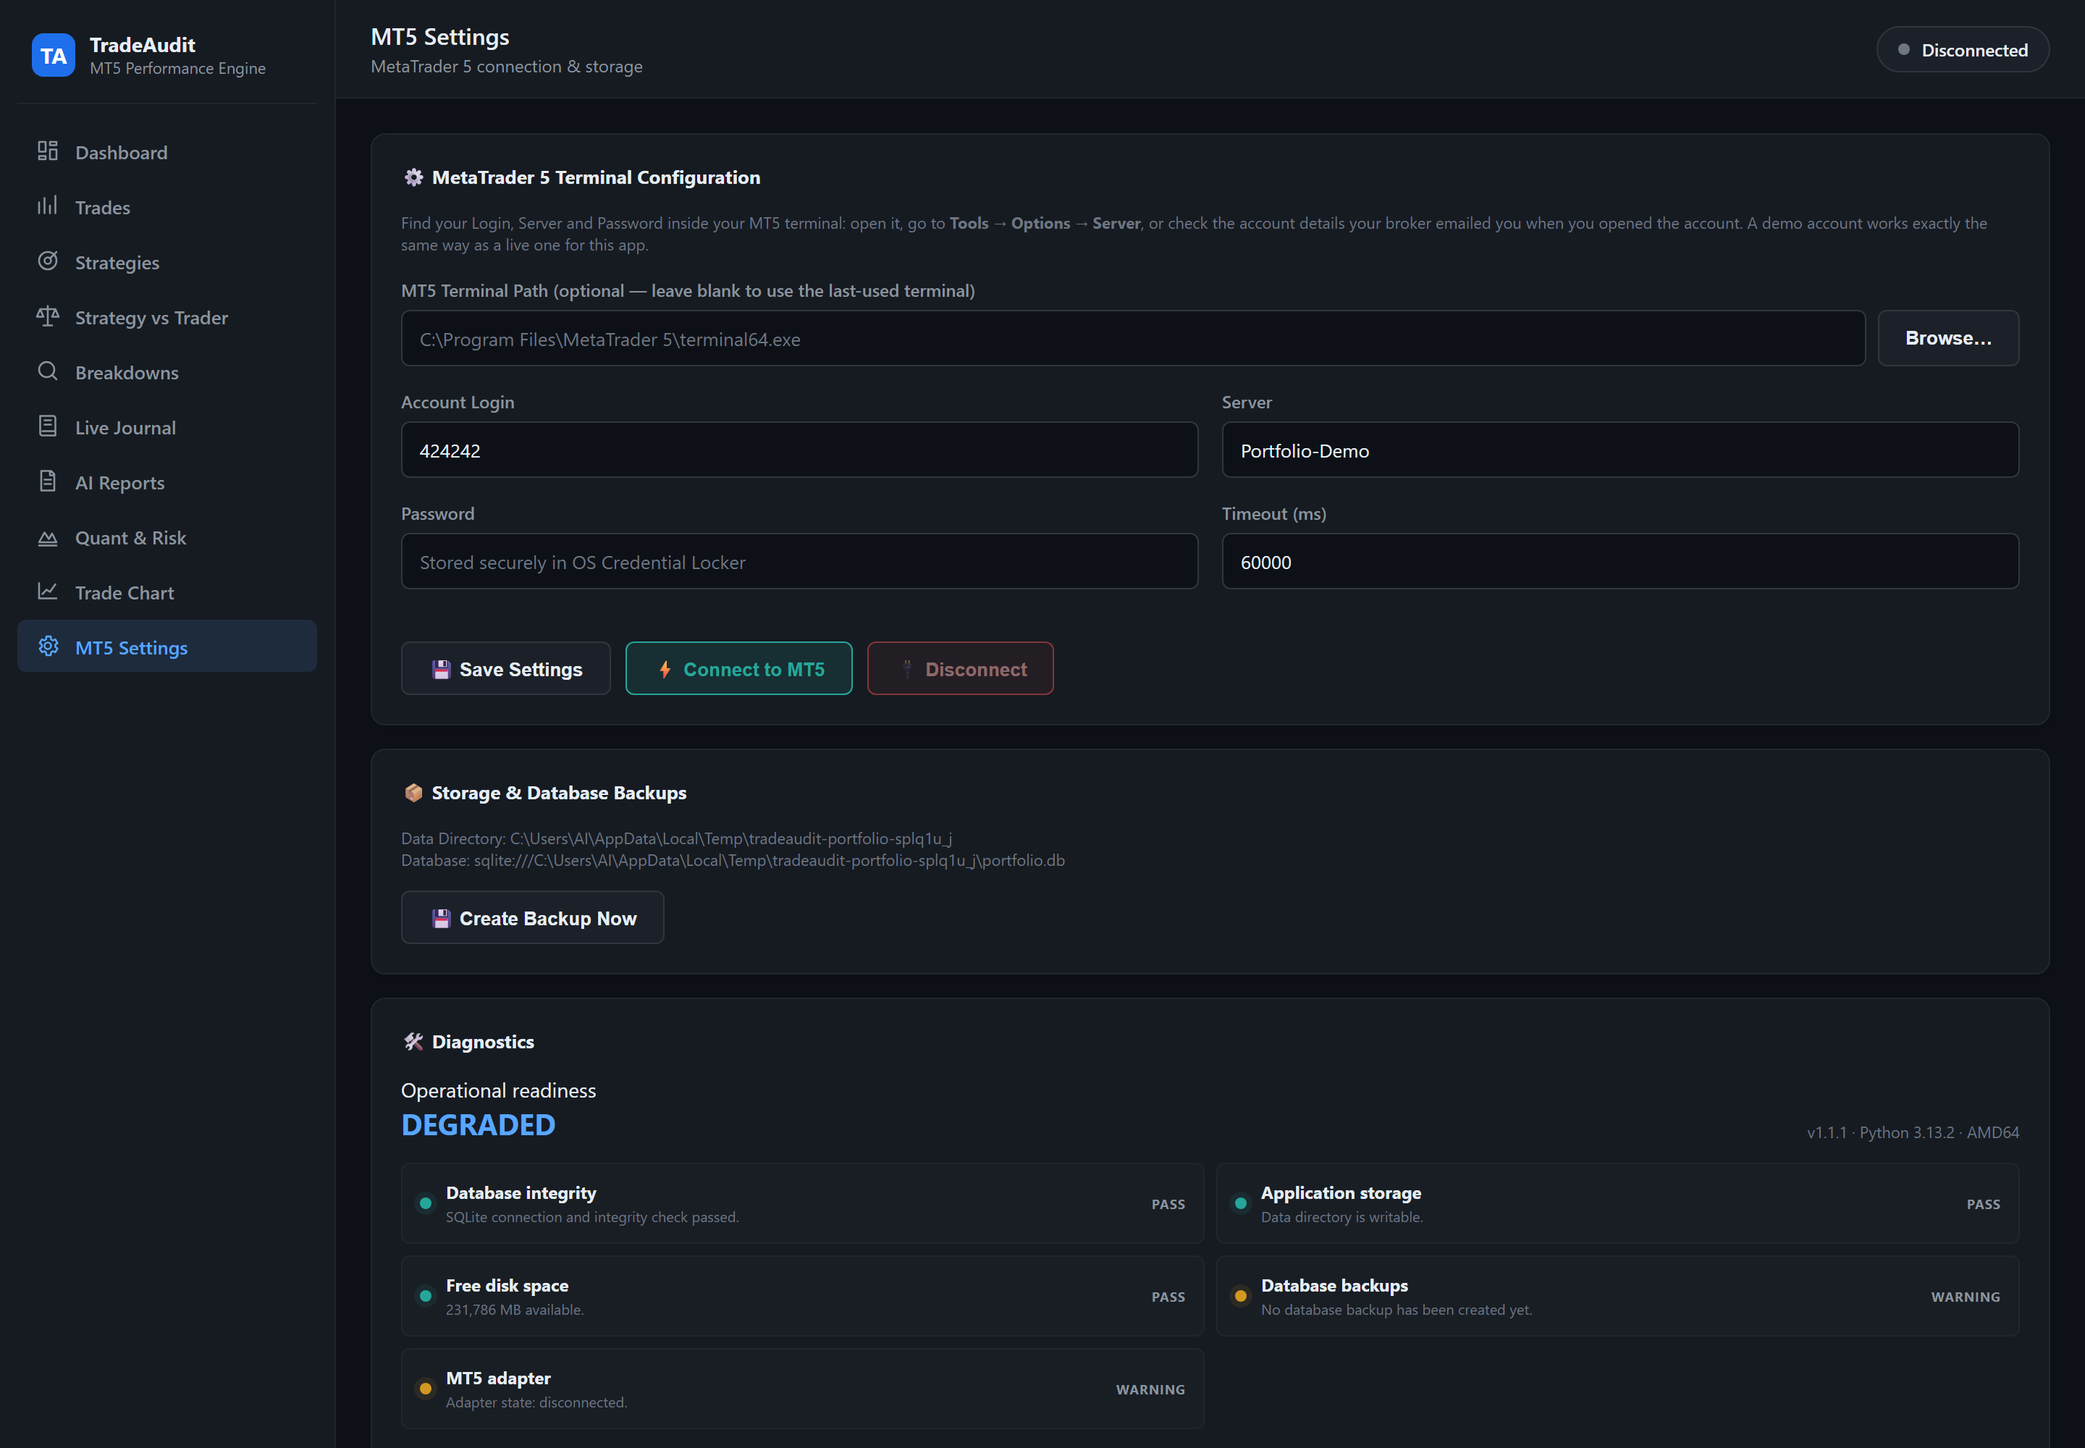
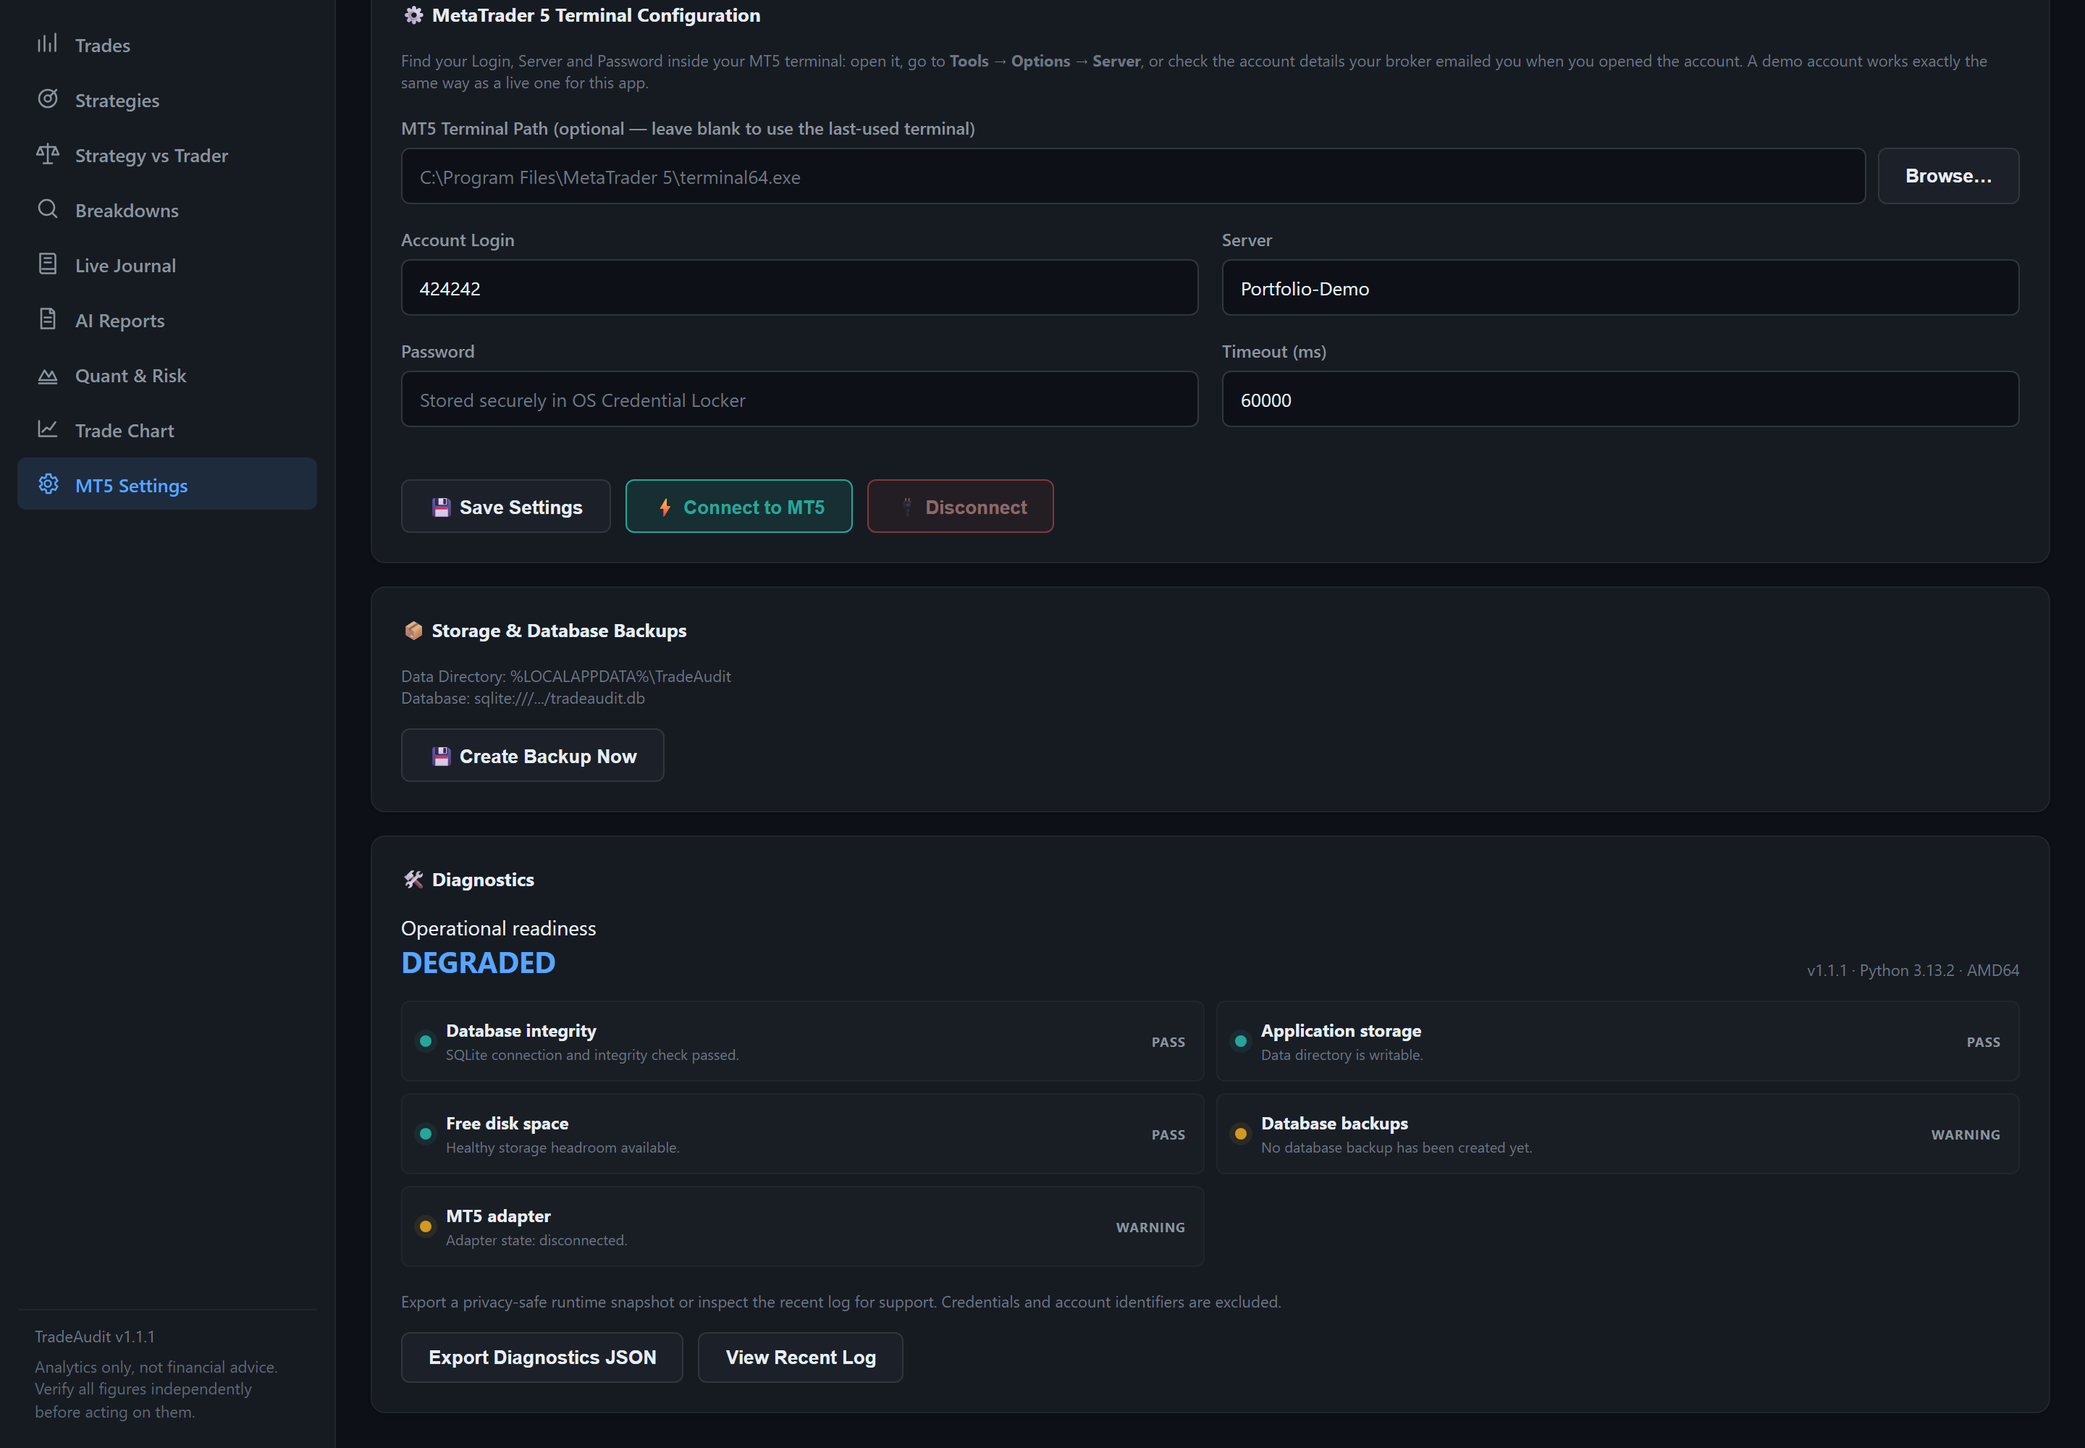
feat: add verifiable audit evidence snapshots

diff --git a/src/tradeaudit/webui/static/app.js b/src/tradeaudit/webui/static/app.js
@@ -278,6 +278,7 @@ async function viewDashboard() {
   }
   const m = data.metrics;
   const q = data.data_quality;
+  const snapshot = data.audit_snapshot;
   if (!m.total_trades) {
     content().innerHTML = onboardingBannerHtml() +
       emptyState("\u{1F4C8}", "No trades yet", "Connect your MT5 account and run a sync from the Trades tab to see performance analytics here.");
@@ -348,8 +349,28 @@ async function viewDashboard() {
           </div>`).join("")}
       </div>
       ${q.actions.length ? `<div class="quality-actions"><strong>Recommended next steps</strong><ul>${q.actions.map((action) => `<li>${esc(action)}</li>`).join("")}</ul></div>` : ""}
+      <div class="evidence-strip">
+        <div>
+          <span>Dataset fingerprint · SHA-256</span>
+          <code title="${esc(snapshot.dataset_sha256)}">${esc(snapshot.dataset_sha256.slice(0, 16))}…${esc(snapshot.dataset_sha256.slice(-12))}</code>
+        </div>
+        <div class="evidence-meta">Schema v${snapshot.schema_version} · ${snapshot.trade_count} closed trades</div>
+        <button class="btn" id="btn-export-snapshot">Export Evidence Snapshot</button>
+      </div>
     </section>
   `;
+  document.getElementById("btn-export-snapshot").addEventListener("click", () => {
+    const blob = new Blob([JSON.stringify(snapshot, null, 2)], { type: "application/json" });
+    const url = URL.createObjectURL(blob);
+    const link = document.createElement("a");
+    link.href = url;
+    link.download = `tradeaudit-audit-snapshot-${new Date().toISOString().slice(0, 10)}.json`;
+    document.body.appendChild(link);
+    link.click();
+    link.remove();
+    URL.revokeObjectURL(url);
+    showTransientBanner("Verifiable audit evidence snapshot exported.", true);
+  });
   drawLineChart(document.getElementById("chart-r"), m.cumulative_r_series, { color: "#58a6ff" });
   drawLineChart(document.getElementById("chart-money"), m.cumulative_monetary_series, { color: "#26a69a" });
 }

diff --git a/src/tradeaudit/webui/static/styles.css b/src/tradeaudit/webui/static/styles.css
@@ -291,6 +291,11 @@ html, body {
 .quality-actions { margin-top: 18px; padding-top: 14px; border-top: 1px solid var(--border-soft); font-size: 12px; color: var(--text-dim); }
 .quality-actions ul { margin: 8px 0 0; padding-left: 18px; }
 .quality-actions li + li { margin-top: 4px; }
+.evidence-strip { display: flex; align-items: center; gap: 18px; margin-top: 18px; padding: 14px; border: 1px solid rgba(88,166,255,.25); border-radius: var(--radius-sm); background: rgba(88,166,255,.045); }
+.evidence-strip > div:first-child { min-width: 0; flex: 1; }
+.evidence-strip span { display: block; color: var(--text-faint); font-size: 10px; margin-bottom: 4px; text-transform: uppercase; letter-spacing: .04em; }
+.evidence-strip code { color: var(--accent); font-size: 12px; overflow-wrap: anywhere; }
+.evidence-meta { color: var(--text-dim); font-size: 11px; white-space: nowrap; }
 
 .diagnostics-head { display: flex; justify-content: space-between; align-items: end; gap: 16px; margin-bottom: 14px; }
 .diagnostics-head strong { font-size: 20px; color: var(--accent); }
@@ -310,6 +315,8 @@ html, body {
   .quality-header { flex-direction: column; }
   .quality-score { text-align: left; }
   .quality-grid { grid-template-columns: 1fr; }
+  .evidence-strip { align-items: stretch; flex-direction: column; }
+  .evidence-meta { white-space: normal; }
   .diagnostics-grid { grid-template-columns: 1fr; }
   .diagnostics-head { align-items: flex-start; flex-direction: column; }
 }

diff --git a/src/tradeaudit/app/services/audit_snapshot_service.py b/src/tradeaudit/app/services/audit_snapshot_service.py
@@ -1,0 +1,100 @@
+"""Create reproducible, privacy-safe evidence snapshots for trade audits."""
+
+import hashlib
+import json
+from dataclasses import asdict, dataclass
+from datetime import datetime, timezone
+from typing import Iterable
+
+from tradeaudit.app.services.data_quality_analyzer import DataQualityAnalyzer
+from tradeaudit.app.services.performance_analyzer import PerformanceAnalyzer
+from tradeaudit.domain.models import Trade
+
+
+@dataclass(frozen=True)
+class AuditSnapshot:
+    schema_version: int
+    generated_at: str
+    app_version: str
+    dataset_sha256: str
+    trade_count: int
+    period: dict
+    metrics: dict
+    data_quality: dict
+
+    def as_dict(self) -> dict:
+        return asdict(self)
+
+
+class AuditSnapshotService:
+    """Fingerprint audit inputs and package aggregate evidence without identity data."""
+
+    SCHEMA_VERSION = 1
+
+    @classmethod
+    def build(cls, trades: Iterable[Trade], app_version: str) -> AuditSnapshot:
+        records = [trade for trade in trades if trade.status and trade.status.upper() == "CLOSED"]
+        canonical_records = sorted(
+            (cls._canonical_trade(trade) for trade in records),
+            key=lambda item: json.dumps(item, sort_keys=True, separators=(",", ":")),
+        )
+        canonical_json = json.dumps(
+            canonical_records, sort_keys=True, separators=(",", ":"), ensure_ascii=True, allow_nan=False,
+        )
+        fingerprint = hashlib.sha256(canonical_json.encode("utf-8")).hexdigest()
+        metrics = PerformanceAnalyzer.analyze(records)
+        quality = DataQualityAnalyzer.analyze(records)
+        starts = [trade.open_time for trade in records if trade.open_time]
+        ends = [trade.close_time for trade in records if trade.close_time]
+        return AuditSnapshot(
+            schema_version=cls.SCHEMA_VERSION,
+            generated_at=datetime.now(timezone.utc).isoformat(),
+            app_version=app_version,
+            dataset_sha256=fingerprint,
+            trade_count=len(records),
+            period={"from": cls._iso(min(starts)) if starts else None, "to": cls._iso(max(ends)) if ends else None},
+            metrics={
+                "verdict": metrics.verdict.value,
+                "win_rate": metrics.win_rate,
+                "net_profit": metrics.net_profit,
+                "expectancy_r": metrics.expectancy_r,
+                "profit_factor": metrics.profit_factor,
+                "max_drawdown_r": metrics.max_drawdown_r,
+                "trades_with_r": metrics.trades_with_r,
+            },
+            data_quality={
+                "score": quality.score,
+                "grade": quality.grade,
+                "coverage": {dimension.key: dimension.coverage for dimension in quality.dimensions},
+            },
+        )
+
+    @classmethod
+    def _canonical_trade(cls, trade: Trade) -> dict:
+        return {
+            "symbol": trade.symbol,
+            "direction": trade.direction,
+            "volume": cls._number(trade.volume),
+            "open_time": cls._iso(trade.open_time),
+            "close_time": cls._iso(trade.close_time),
+            "open_price": cls._number(trade.open_price),
+            "close_price": cls._number(trade.close_price),
+            "initial_sl": cls._number(trade.initial_sl),
+            "initial_tp": cls._number(trade.initial_tp),
+            "net_profit": cls._number(trade.net_profit),
+            "realized_r": cls._number(trade.realized_r),
+            "compliance_status": trade.compliance_status,
+            "emotion_tag": trade.emotion_tag,
+        }
+
+    @staticmethod
+    def _number(value):
+        return None if value is None else round(float(value), 8)
+
+    @staticmethod
+    def _iso(value: datetime | None) -> str | None:
+        if value is None:
+            return None
+        if value.tzinfo is None:
+            value = value.replace(tzinfo=timezone.utc)
+        return value.astimezone(timezone.utc).isoformat()

diff --git a/scripts/capture_portfolio_screenshots.py b/scripts/capture_portfolio_screenshots.py
@@ -92,6 +92,7 @@ def capture(output_dir: Path) -> list[Path]:
 
         dashboard = output_dir / "01-dashboard.png"
         diagnostics = output_dir / "06-system-health.png"
+        evidence = output_dir / "07-audit-evidence.png"
         try:
             with sync_playwright() as playwright:
                 browser = playwright.chromium.launch()
@@ -103,8 +104,20 @@ def capture(output_dir: Path) -> list[Path]:
                 page.wait_for_selector("#dashboard-heading", timeout=15_000)
                 page.wait_for_timeout(500)
                 page.screenshot(path=str(dashboard), full_page=False)
+                page.locator(".evidence-strip").scroll_into_view_if_needed()
+                page.wait_for_timeout(300)
+                page.screenshot(path=str(evidence), full_page=False)
                 page.goto(f"http://127.0.0.1:{port}/#settings")
                 page.wait_for_selector(".diagnostics-grid", timeout=15_000)
+                # Keep the committed portfolio image reproducible and free of
+                # workstation-specific temp paths / volatile disk figures.
+                page.locator(".card").nth(1).locator(".kpi-sub").evaluate(
+                    "el => el.innerHTML = 'Data Directory: <span class=\"mono\">%LOCALAPPDATA%\\\\TradeAudit</span><br>' +"
+                    "'Database: <span class=\"mono\">sqlite:///.../tradeaudit.db</span>'"
+                )
+                page.locator(".diagnostic-check", has_text="Free disk space").locator("small").evaluate(
+                    "el => el.textContent = 'Healthy storage headroom available.'"
+                )
                 page.locator(".diagnostics-grid").scroll_into_view_if_needed()
                 page.wait_for_timeout(300)
                 page.screenshot(path=str(diagnostics), full_page=False)
@@ -113,7 +126,7 @@ def capture(output_dir: Path) -> list[Path]:
             server.should_exit = True
             thread.join(timeout=5)
             database.close()
-        return [dashboard, diagnostics]
+        return [dashboard, diagnostics, evidence]
 
 
 def main() -> int:

diff --git a/tests/unit/test_audit_snapshot_service.py b/tests/unit/test_audit_snapshot_service.py
@@ -1,0 +1,47 @@
+import json
+from datetime import datetime, timedelta, timezone
+
+from tradeaudit.app.services.audit_snapshot_service import AuditSnapshotService
+from tradeaudit.domain.models import Trade
+
+
+def trade(position_id: int, hours: int, profit: float) -> Trade:
+    opened = datetime(2026, 1, 1, tzinfo=timezone.utc) + timedelta(hours=hours)
+    return Trade(
+        account_id=999999, position_id=position_id, symbol="EURUSD", direction="BUY",
+        volume=0.1, open_time=opened, close_time=opened + timedelta(hours=1),
+        open_price=1.1, close_price=1.11, initial_sl=1.09, initial_tp=1.12,
+        profit=profit, realized_r=profit / 10, status="CLOSED",
+        strategy_id=1, compliance_status="COMPLIANT", emotion_tag="CALM",
+    )
+
+
+def test_fingerprint_is_stable_across_input_order_and_identity_fields():
+    first, second = trade(101, 0, 20), trade(102, 2, -10)
+    one = AuditSnapshotService.build([first, second], "1.2.3")
+    first.account_id = 123
+    first.position_id = 888
+    two = AuditSnapshotService.build([second, first], "1.2.3")
+
+    assert one.dataset_sha256 == two.dataset_sha256
+    assert len(one.dataset_sha256) == 64
+
+
+def test_snapshot_contains_aggregate_evidence_without_identifiers():
+    snapshot = AuditSnapshotService.build([trade(101, 0, 20)], "1.2.3").as_dict()
+    serialized = json.dumps(snapshot).lower()
+
+    assert snapshot["schema_version"] == 1
+    assert snapshot["trade_count"] == 1
+    assert snapshot["metrics"]["net_profit"] == 20
+    assert snapshot["data_quality"]["score"] == 100
+    assert "account_id" not in serialized
+    assert "position_id" not in serialized
+
+
+def test_changing_audited_value_changes_fingerprint():
+    item = trade(101, 0, 20)
+    before = AuditSnapshotService.build([item], "1.2.3").dataset_sha256
+    item.realized_r = 3.0
+    after = AuditSnapshotService.build([item], "1.2.3").dataset_sha256
+    assert before != after

diff --git a/src/tradeaudit/webui/server.py b/src/tradeaudit/webui/server.py
@@ -27,6 +27,7 @@ from tradeaudit.domain.annotations import ChartAnnotation, AnnotationType, Trade
 from tradeaudit.app.services.performance_analyzer import PerformanceAnalyzer
 from tradeaudit.app.services.data_quality_analyzer import DataQualityAnalyzer
 from tradeaudit.app.services.diagnostics_service import DiagnosticsService
+from tradeaudit.app.services.audit_snapshot_service import AuditSnapshotService
 from tradeaudit.app.services.breakdown_analyzer import BreakdownAnalyzer
 from tradeaudit.app.services.strategy_trader_comparator import StrategyTraderComparator
 from tradeaudit.webui.context import AppContext
@@ -443,11 +444,19 @@ def create_app(ctx: AppContext, api_token: Optional[str] = None) -> FastAPI:
             except Exception:
                 account_info = None
         quality = DataQualityAnalyzer.analyze(closed)
+        snapshot = AuditSnapshotService.build(closed, ctx.settings.app_version)
         return {
             "metrics": to_jsonable(metrics),
             "data_quality": to_jsonable(quality),
+            "audit_snapshot": snapshot.as_dict(),
             "account": to_jsonable(account_info),
         }
+
+    @app.get("/api/audit-snapshot")
+    def audit_snapshot():
+        """Return a reproducible aggregate snapshot with a dataset fingerprint."""
+        _, closed = closed_trades()
+        return AuditSnapshotService.build(closed, ctx.settings.app_version).as_dict()
 
     # ---------------------------------------------------------- strategies
 

diff --git a/tests/unit/test_webui_server.py b/tests/unit/test_webui_server.py
@@ -120,6 +120,17 @@ def test_trades_and_dashboard_empty_before_any_sync(client):
     assert dashboard.status_code == 200
     assert dashboard.json()["metrics"]["total_trades"] == 0
     assert dashboard.json()["data_quality"]["grade"] == "N/A"
+    assert len(dashboard.json()["audit_snapshot"]["dataset_sha256"]) == 64
+
+
+def test_audit_snapshot_is_privacy_safe_and_versioned(client):
+    res = client.get("/api/audit-snapshot")
+    assert res.status_code == 200
+    body = res.json()
+    assert body["schema_version"] == 1
+    assert len(body["dataset_sha256"]) == 64
+    assert "account_id" not in res.text.lower()
+    assert "position_id" not in res.text.lower()
 
 
 def test_sync_without_saved_settings_returns_400(client):

diff --git a/tests/e2e/test_ui_flows.py b/tests/e2e/test_ui_flows.py
@@ -23,6 +23,8 @@ def test_seeded_dashboard_has_portfolio_snapshot_and_accessible_nav(page, live_s
     assert page.is_visible(".verdict-card")
     assert page.is_visible(".quality-card")
     assert page.get_attribute('.quality-row:first-child [role="progressbar"]', "aria-valuemax") == "100"
+    assert page.is_visible(".evidence-strip")
+    assert page.is_enabled("#btn-export-snapshot")
     assert page.get_attribute('[data-route="dashboard"]', "aria-current") == "page"
     assert page.title() == "Dashboard · TradeAudit"
 

diff --git a/README.md b/README.md
@@ -158,6 +158,13 @@ read-only analytics application: it does not place, modify, or close orders.
 
 ![TradeAudit Runtime Diagnostics](docs/images/06-system-health.png)
 
+### 🔏 15. Verifiable Audit Evidence
+- Every dashboard audit can be exported as a versioned, privacy-safe JSON evidence snapshot.
+- A deterministic SHA-256 fingerprint changes when an audited trade value changes, while remaining stable across record ordering and internal account identifiers.
+- The snapshot packages the audit period, aggregate performance, data-quality coverage, and application version for reproducible reviews and support handoffs.
+
+![TradeAudit Verifiable Audit Evidence](docs/images/07-audit-evidence.png)
+
 ---
 
 ## 🖥 Architecture

diff --git a/CHANGELOG.md b/CHANGELOG.md
@@ -9,6 +9,7 @@
 - Unit and browser regression coverage for the new quality contract and visualization.
 - Privacy-safe runtime diagnostics covering database, storage, disk, backups, and the MT5 adapter.
 - An in-app operational readiness panel and downloadable diagnostics snapshot for support workflows.
+- Versioned audit evidence snapshots with deterministic SHA-256 dataset fingerprints and no account identifiers.
 
 ## 1.1.1 — 2026-10-27
 
